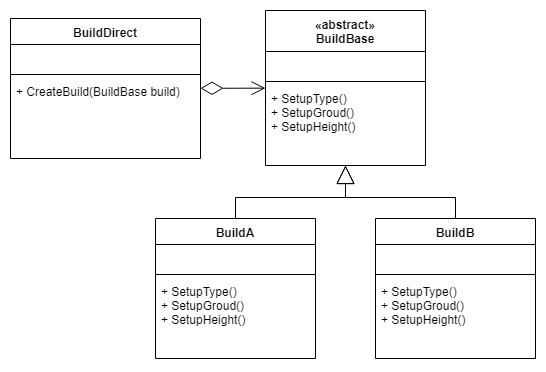
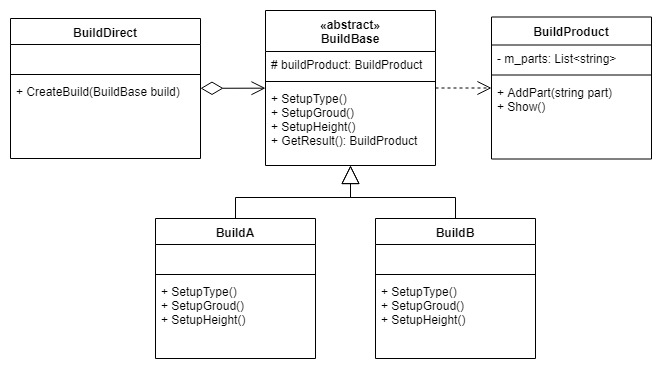
- Builder

diff --git a/Assets/09 - Builder/BuilderInstance.cs b/Assets/09 - Builder/BuilderInstance.cs
@@ -1,29 +1,37 @@
-using UnityEngine;
+using System.Collections.Generic;
+using UnityEngine;
 
 namespace DP.Builder
 {
     public abstract class BuildBase
     {
+        protected BuildProduct buildProduct = new BuildProduct();
+
         public abstract void SetupType();
         public abstract void SetupGroud();
         public abstract void SetupHeight();
+
+        public BuildProduct GetProduct()
+        {
+            return buildProduct;
+        }
     }
 
     public class BuildA : BuildBase
     {
         public override void SetupType()
         {
-            Debug.Log("[BuildA] 類型: 台式三合院");
+            buildProduct.AddPart("[BuildA] 類型: 台式三合院");
         }
 
         public override void SetupGroud()
         {
-            Debug.Log("[BuildA] 佔地: 10公頃");
+            buildProduct.AddPart("[BuildA] 佔地: 10公頃");
         }
 
         public override void SetupHeight()
         {
-            Debug.Log("[BuildA] 高度: 5樓");
+            buildProduct.AddPart("[BuildA] 高度: 5樓");
         }
     }
 
@@ -31,17 +39,36 @@ namespace DP.Builder
     {
         public override void SetupType()
         {
-            Debug.Log("[BuildB] 類型: 歐式");
+            buildProduct.AddPart("[BuildB] 類型: 歐式");
         }
 
         public override void SetupGroud()
         {
-            Debug.Log("[BuildB] 佔地: 100公頃");
+            buildProduct.AddPart("[BuildB] 佔地: 100公頃");
         }
 
         public override void SetupHeight()
         {
-            Debug.Log("[BuildB] 高度: 3樓");
+            buildProduct.AddPart("[BuildB] 高度: 3樓");
+        }
+    }
+
+    public class BuildProduct
+    {
+        private List<string> m_parts = new List<string>();
+
+        public void AddPart(string part)
+        {
+            m_parts.Add(part);
+        }
+
+        public void Show()
+        {
+            Debug.Log("--------------------------------------------------------------------------------");
+            for (int i = 0; i < m_parts.Count; i++)
+            {
+                Debug.Log(m_parts[i]);
+            }
         }
     }
 

diff --git a/Assets/09 - Builder/BuilderTester.cs b/Assets/09 - Builder/BuilderTester.cs
@@ -13,9 +13,11 @@ namespace DP.Builder
 
             BuildBase build = new BuildA();
             buildDirect.CreateBuild(build);
+            build.GetProduct().Show();
 
             build = new BuildB();
             buildDirect.CreateBuild(build);
+            build.GetProduct().Show();
         }
 
     }
